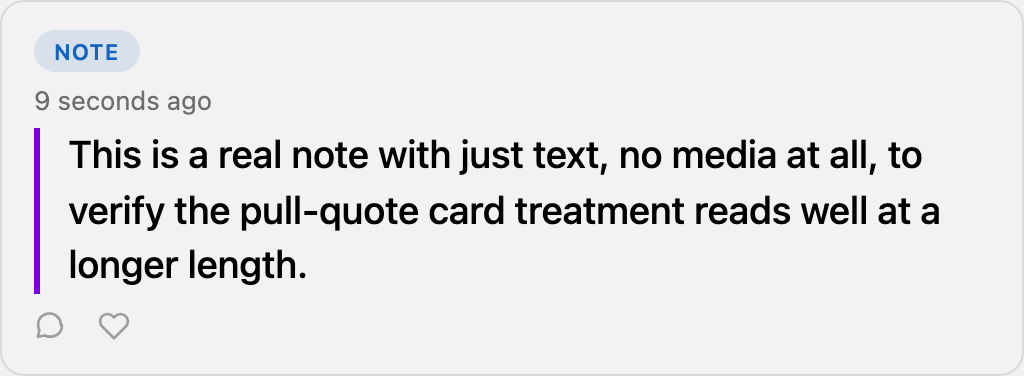
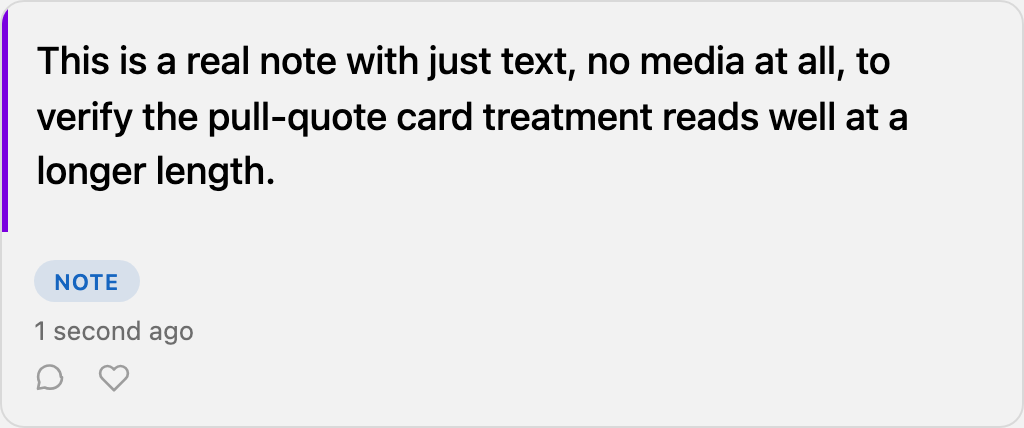
Lead the note card with its pull-quote caption, matching other types
The badge/date row was rendering before the note's caption, unlike
every other type where the prominent content (thumbnail or player)
comes first. Moves the pull-quote caption out of .daymark-item-body
into the same leading position, with its own inset padding since it's
no longer nested in the body's padded container. Locked in with a
position-ordering test.

Changed region(s): [[0.0, 0.0293, 0.9375, 0.8191], [0.0938, 0.8191, 0.125, 0.9069], [0.0312, 0.8191, 0.0625, 0.9069]]

diff --git a/assets/views.css b/assets/views.css
@@ -129,7 +129,8 @@
 	font-size: 1.1875rem;
 	font-weight: 500;
 	line-height: 1.45;
-	padding-left: 0.875rem;
+	margin: 0;
+	padding: 1rem 1rem 1rem 0.875rem;
 }
 
 .daymark-item-stats {
@@ -168,5 +169,9 @@
 @media (max-width: 480px) {
 	.daymark-item-body {
 		padding: 0.75rem 0.875rem 0.875rem;
+	}
+
+	.daymark-item-caption--note {
+		padding: 0.875rem 0.875rem 0.875rem 0.75rem;
 	}
 }

diff --git a/includes/class-renderer.php b/includes/class-renderer.php
@@ -165,13 +165,25 @@ class Daymark_Renderer {
 
 		$html = '<article class="daymark-item daymark-item--' . esc_attr( $type ) . '">';
 
-		// Pure audio/video Marks (detect_primary_type() only returns these
-		// when no image is attached) get an inline player instead of a
-		// thumbnail — there is usually nothing to thumbnail in the first
-		// place. It isn't wrapped in the permalink link like the image
-		// thumbnail is: native controls need direct interaction.
+		$has_caption   = is_string( $caption ) && '' !== $caption;
+		$note_led_here = false;
+
+		// Every type leads with its most prominent content, ahead of the
+		// badge/date row — a thumbnail or player for the types that have
+		// one; for a note, which has nothing else, that's its caption
+		// (pull-quote styled), since the caption *is* the whole Mark.
 		if ( in_array( $type, array( 'audio', 'video' ), true ) ) {
+			// Pure audio/video Marks (detect_primary_type() only returns
+			// these when no image is attached) get an inline player instead
+			// of a thumbnail — there is usually nothing to thumbnail in the
+			// first place. It isn't wrapped in the permalink link like the
+			// image thumbnail is: native controls need direct interaction.
 			$html .= $this->item_player( $post, $type );
+		} elseif ( 'note' === $type ) {
+			if ( $has_caption ) {
+				$html         .= '<p class="daymark-item-caption daymark-item-caption--note">' . esc_html( $caption ) . '</p>';
+				$note_led_here = true;
+			}
 		} else {
 			$thumb = $this->item_thumbnail( $post );
 
@@ -186,12 +198,8 @@ class Daymark_Renderer {
 		$html .= '<time datetime="' . esc_attr( get_the_date( 'c', $post ) ) . '">' . esc_html( $this->human_date( $post ) ) . '</time>';
 		$html .= '</a>';
 
-		if ( is_string( $caption ) && '' !== $caption ) {
-			// A note has nothing else to show, so its caption is the Mark's
-			// entire content — give it a pull-quote treatment instead of
-			// the smaller supporting-text style used under a thumbnail/player.
-			$caption_class = 'daymark-item-caption' . ( 'note' === $type ? ' daymark-item-caption--note' : '' );
-			$html         .= '<p class="' . esc_attr( $caption_class ) . '">' . esc_html( $caption ) . '</p>';
+		if ( $has_caption && ! $note_led_here ) {
+			$html .= '<p class="daymark-item-caption">' . esc_html( $caption ) . '</p>';
 		}
 
 		$html .= $this->render_stats( $post->ID );

diff --git a/tests/test-renderer.php b/tests/test-renderer.php
@@ -125,6 +125,24 @@ class Test_Renderer extends WP_UnitTestCase {
 		$this->assertStringContainsString( 'daymark-item-caption daymark-item-caption--note', $html );
 	}
 
+	/**
+	 * A note's pull-quote caption leads the card, the same way a
+	 * thumbnail/player does for other types — not tucked after the
+	 * badge/date row.
+	 */
+	public function test_note_caption_renders_before_badge() {
+		self::factory()->post->update_object( $this->daymark_id, array( 'post_content' => 'A late-night thought.' ) );
+
+		$html = ( new Daymark_Renderer() )->render( 'timeline' );
+
+		$caption_pos = strpos( $html, 'daymark-item-caption--note' );
+		$badge_pos   = strpos( $html, 'daymark-badge' );
+
+		$this->assertNotFalse( $caption_pos );
+		$this->assertNotFalse( $badge_pos );
+		$this->assertLessThan( $badge_pos, $caption_pos, 'The pull-quote caption should render before the badge/date row' );
+	}
+
 	/** A non-note type's caption stays the plain (non-pull-quote) style. */
 	public function test_non_note_caption_has_no_pull_quote_class() {
 		update_post_meta( $this->daymark_id, '_daymark_primary_type', 'image' );
